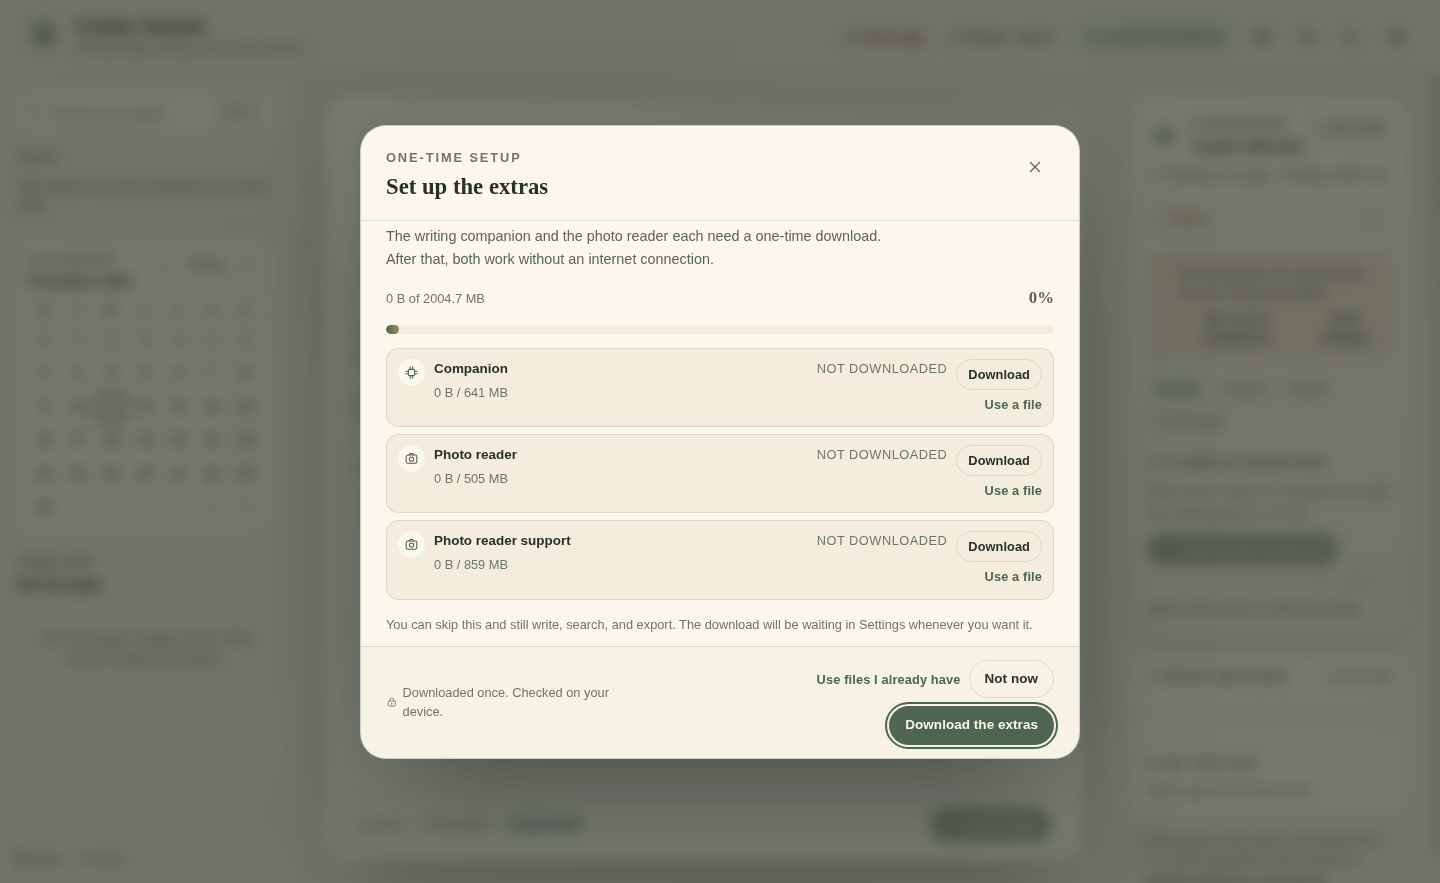
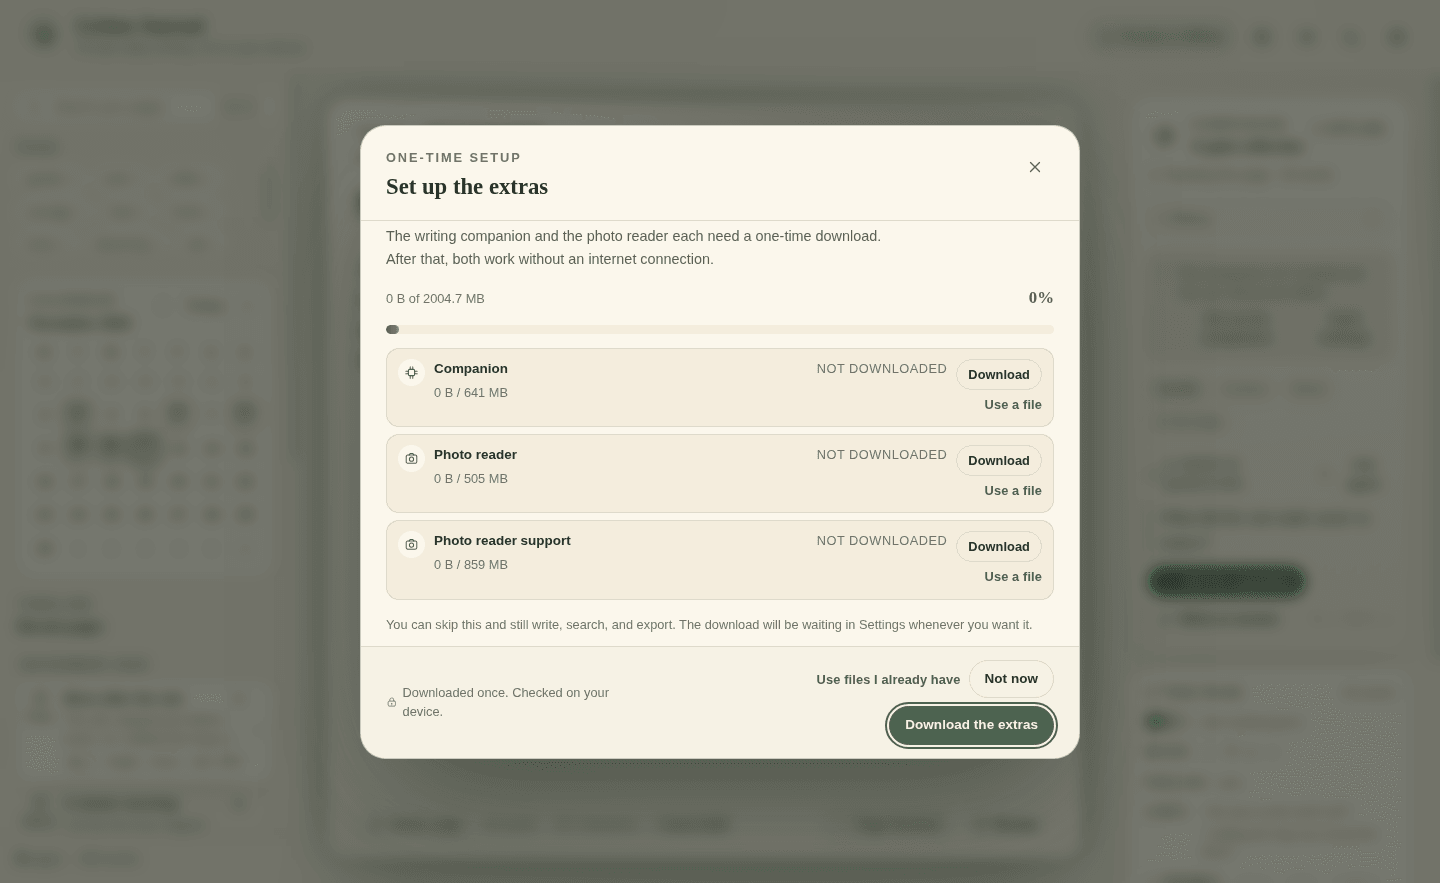
chore: automate README screenshot capture
Add an npm script that seeds the demo journal in an isolated profile, launches the production bundle with developer controls hidden, and refreshes all five screenshots. Images are palette-compressed on write, and LICHEN_DEVTOOLS=0 now hides the source-checkout reset controls.

Changed region(s): [[0.7812, 0.6116, 0.9375, 0.7033], [0.6562, 0.9173, 0.6875, 0.9479]]

diff --git a/src/main/index.js b/src/main/index.js
@@ -42,6 +42,16 @@ const {
 const { runSelftest } = require('./selftest');
 
 const IS_SELFTEST = process.env.LICHEN_SELFTEST === '1';
+
+function devToolsEnabled() {
+  if (process.env.LICHEN_DEVTOOLS === '1') return true;
+  if (process.env.LICHEN_DEVTOOLS === '0') return false;
+  return !app.isPackaged;
+}
+
+function devResetEnabled() {
+  return !app.isPackaged && process.env.LICHEN_DEVTOOLS !== '0';
+}
 const BACKGROUND = { light: '#f3eee1', dark: '#111713' };
 const MAX_PREVIEW_WIDTH = 1200;
 const MAX_NORMALIZED_IMAGE_BYTES = 60 * 1024 * 1024;
@@ -304,6 +314,7 @@ function registerIpc() {
     platform: process.platform,
     arch: process.arch,
     isPackaged: app.isPackaged,
+    devReset: devResetEnabled(),
     userDataPath: app.getPath('userData'),
     dbPath: vault.dbPath,
     vaultDir: vault.vaultDir,
@@ -839,7 +850,7 @@ function createWindow() {
       nodeIntegrationInWorker: false,
       webviewTag: false,
       spellcheck: false,
-      devTools: !app.isPackaged || process.env.LICHEN_DEVTOOLS === '1',
+      devTools: devToolsEnabled(),
       backgroundThrottling: false
     }
   });

diff --git a/src/renderer/src/App.jsx b/src/renderer/src/App.jsx
@@ -991,7 +991,7 @@ export default function App() {
   if (bootState === 'error') return <BootError error={bootError} />;
 
   const shortcutLabel = info?.platform === 'darwin' ? '⌘' : 'Ctrl';
-  const showDevTools = Boolean(info && info.isPackaged === false);
+  const showDevTools = Boolean(info?.devReset);
   const showFirstRun =
     (stats?.entryCount ?? info?.stats?.entryCount ?? 0) === 0 &&
     !entry &&

diff --git a/README.md b/README.md
@@ -151,6 +151,7 @@ npm run dist             # Installer/AppImage for the current OS
 npm run smoke:ai         # Direct companion smoke test (reflection + metadata + palette)
 npm run smoke:ai:gpu     # Companion smoke on a host with a working video card
 npm run smoke:ocr        # Direct OCR smoke test on tests/fixtures/ocr-journal-page.png
+npm run screenshots      # Rebuild and refresh screenshots/*.png from the current UI
 npm run selftest         # Electron end-to-end vault/AI/OCR/export/purge self-test
 npm run model:verify     # Verify the three development GGUF files
 npm run ocr:runtime:fetch   # Download the pinned processor and video-card OCR runtimes
@@ -465,11 +466,24 @@ hooks (`model-setup`, `model-setup-primary`, `compute-choice-gpu`) and state
 attributes instead of matching display copy, so wording changes do not require
 test edits.
 
+The README images are generated from the running build:
+
+```bash
+npm run screenshots
+```
+
+The script seeds the demo journal into an isolated temporary app-data directory,
+launches the production bundle with the developer controls hidden, and writes the
+five `screenshots/*.png` files. Images are palette-compressed on the way out to
+keep the repository history small. Run it after any interface change that makes
+a README image stale.
+
 ### Development reset controls
 
 When the app runs from source, the header includes two developer-only reset
 buttons. They are not present in packaged builds, and both ask for confirmation
-before changing anything.
+before changing anything. Set `LICHEN_DEVTOOLS=0` to launch a source checkout
+without them, as the packaged app and the screenshot script do.
 
 - **Reset app** clears every entry, theme and preference, the saved compute
   setting, and the downloaded model files. The next screen is the first-run
@@ -540,7 +554,7 @@ for the release checklist, artifact checks, and signing notes.
 | `LICHEN_ENABLE_GPU=1` | Re-enable Chromium hardware acceleration for the interface (off by default for stability). This does not control whether the AI models use a video card; use the in-app preference for that. |
 | `LICHEN_COMPUTE_MODE=cpu\|gpu` | Test/dev override for the model accelerator. The saved in-app preference is authoritative in normal use. |
 | `LICHEN_REQUIRE_GPU=1` | Make the GPU smoke checks fail if the video card was not actually used. |
-| `LICHEN_DEVTOOLS=1` | Allow DevTools in packaged builds for debugging. |
+| `LICHEN_DEVTOOLS` | Set to `1` to allow DevTools in packaged builds for debugging, or `0` to hide the developer reset controls in a source checkout (used by the screenshot script). |
 | `LICHEN_SELFTEST=1` | Run the packaged self-test and exit. |
 | `LICHEN_MODEL_DIR` | Test/dev override for the directory containing model files. |
 | `VITE_DEV_SERVER_URL` | Set by the dev script; loads the Vite renderer. |
